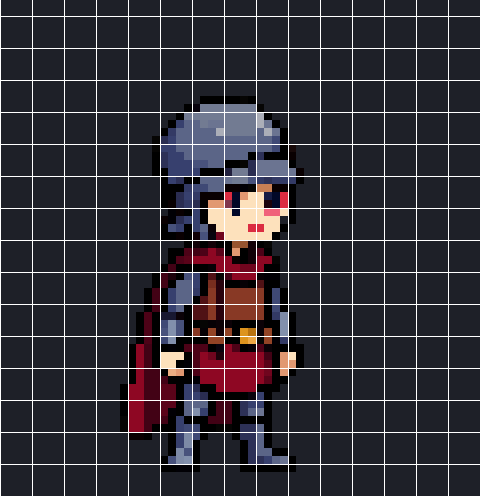
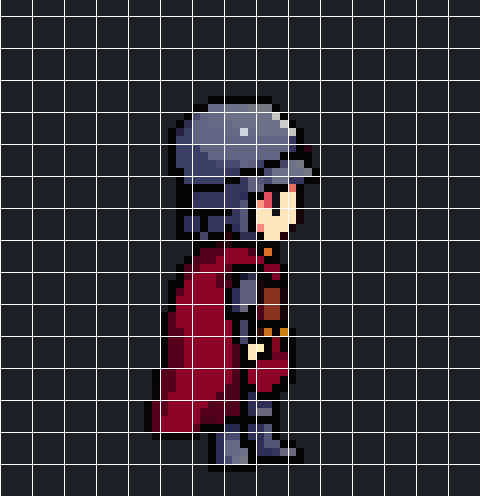
레인저 흠 수리: 석궁사수 옆모습 (PixelLab rotate + 걷기·쏘기 재생성, usage 10)
- /rotate south-east → east 로 중립 그림을 옆모습으로, 관절 다시 읽고 skeleton 3회
- 걷기 3.70, 쏘기 3.60(걷기 석궁을 손 맞춰 붙임), 하늘은 regen 이라 옆모습 쏘기로 대신
- plb.py rotate 명령, 상한 132 · 바닥 50 (사용자 지시)

Changed region(s): [[0.25, 0.1815, 0.6875, 0.9677], [0.4375, 0.2419, 0.4688, 0.2722]]

diff --git a/src/sprites/meta.js b/src/sprites/meta.js
@@ -1,7 +1,7 @@
 'use strict';
 // 생성 파일 — node dev/boxer/sheet-meta.js 가 src/sprites/*.json 을 묶는다 (src/sprites.js)
 const SHEET_META = {
-  arbalest: {"w":75,"h":75,"foot":[33,67],"anims":{"idle":{"row":0,"frames":4,"fps":6,"loop":true},"guard":{"row":1,"frames":4,"fps":8,"loop":true},"walk":{"row":2,"frames":8,"fps":10,"loop":true},"atkA":{"row":3,"frames":6,"fps":14,"loop":false,"hit":3},"atkB":{"row":4,"frames":8,"fps":14,"loop":false,"hit":4},"cast":{"row":5,"frames":2,"fps":10,"loop":true,"key":"pull","val":[0,4.5]},"castUp":{"row":6,"frames":2,"fps":10,"loop":true,"key":"pull","val":[6,12]},"hurt":{"row":7,"frames":2,"fps":12,"loop":false},"death":{"row":8,"frames":5,"fps":8,"loop":false}},"pts":{"idle":[[52,47,32,31],[52,48,32,32],[52,48,32,32],[52,47,32,31]],"guard":[[52,48,32,32],[52,48,32,33],[52,48,32,33],[52,48,32,32]],"walk":[[53,51,33,30],[53,51,33,30],[53,51,33,30],[53,51,33,30],[53,52,34,30],[53,51,33,30],[53,51,33,30],[53,51,33,30]],"atkA":[[52,47,32,31],[53,47,33,31],[51,43,28,31],[49,43,27,31],[50,43,27,31],[53,47,33,31]],"atkB":[[50,41,36,30],[46,44,33,30],[45,43,31,29],[42,42,29,29],[42,40,28,29],[41,41,27,30],[42,42,29,29],[50,41,36,30]],"cast":[[52,47,32,31],[53,47,33,31]],"castUp":[[46,44,33,30],[42,42,29,29]],"hurt":[[51,47,30,31],[51,47,31,31]],"death":[[51,47,31,31],[42,41,26,33],[36,55,22,32],[31,53,12,37],[30,56,10,37]]},"v":"2068cdec"},
+  arbalest: {"w":96,"h":96,"foot":[42,86],"anims":{"idle":{"row":0,"frames":4,"fps":6,"loop":true},"guard":{"row":1,"frames":4,"fps":8,"loop":true},"walk":{"row":2,"frames":8,"fps":10,"loop":true},"atkA":{"row":3,"frames":8,"fps":14,"loop":false,"hit":3},"atkB":{"row":4,"frames":8,"fps":14,"loop":false,"hit":3},"cast":{"row":5,"frames":2,"fps":10,"loop":true,"key":"pull","val":[0,4.5]},"castUp":{"row":6,"frames":2,"fps":10,"loop":true,"key":"pull","val":[6,12]},"hurt":{"row":7,"frames":2,"fps":12,"loop":false},"death":{"row":8,"frames":5,"fps":8,"loop":false}},"pts":{"idle":[[68,58,47,37],[68,59,47,38],[68,59,47,38],[68,58,47,37]],"guard":[[68,59,47,38],[68,60,47,39],[68,60,47,39],[68,59,47,38]],"walk":[[69,63,42,40],[69,62,42,39],[69,62,42,39],[69,62,42,39],[69,63,42,40],[69,62,42,39],[69,62,42,39],[69,62,42,39]],"atkA":[[68,58,47,37],[68,58,47,37],[66,61,41,40],[64,61,39,40],[65,61,40,40],[69,60,48,39],[69,61,45,39],[68,58,47,37]],"atkB":[[68,58,47,37],[68,58,47,37],[66,61,41,40],[64,61,39,40],[65,61,40,40],[69,60,48,39],[69,61,45,39],[68,58,47,37]],"cast":[[68,58,47,37],[68,58,47,37]],"castUp":[[68,58,47,37],[66,61,41,40]],"hurt":[[66,58,45,37],[67,58,46,37]],"death":[[67,58,46,37],[54,51,26,38],[46,72,30,42],[40,66,12,44],[39,66,11,47]]},"v":"ca8a7a9d"},
   arcaneArcher: {"w":75,"h":75,"foot":[33,67],"anims":{"idle":{"row":0,"frames":4,"fps":6,"loop":true},"guard":{"row":1,"frames":4,"fps":8,"loop":true},"walk":{"row":2,"frames":8,"fps":10,"loop":true},"atkA":{"row":3,"frames":8,"fps":14,"loop":false,"hit":5},"atkB":{"row":4,"frames":8,"fps":14,"loop":false,"hit":5},"cast":{"row":5,"frames":4,"fps":10,"loop":true,"key":"pull","val":[0,4.5,7.5,12]},"castUp":{"row":6,"frames":2,"fps":10,"loop":true,"key":"pull","val":[6,12]},"hurt":{"row":7,"frames":2,"fps":12,"loop":false},"death":{"row":8,"frames":5,"fps":8,"loop":false}},"pts":{"idle":[[48,44,41,29],[48,45,41,30],[48,45,41,30],[48,44,41,29]],"guard":[[48,45,41,30],[48,46,41,30],[48,46,41,30],[48,45,41,30]],"walk":[[47,52,32,31],[48,50,32,30],[48,49,32,30],[48,51,31,30],[49,52,32,31],[48,51,32,30],[48,51,32,30],[48,51,31,30]],"atkA":[[48,44,41,29],[48,44,41,29],[45,44,39,29],[44,48,37,29],[44,48,37,29],[47,42,29,31],[47,42,29,31],[48,44,41,29]],"atkB":[[45,47,30,25],[45,47,30,25],[44,46,27,26],[44,48,26,26],[44,45,25,26],[44,45,27,24],[45,48,29,27],[45,48,29,27]],"cast":[[48,44,41,29],[48,44,41,29],[45,44,39,29],[44,48,37,29]],"castUp":[[44,46,27,26],[44,45,25,26]],"hurt":[[47,44,40,29],[48,44,41,29]],"death":[[48,44,41,29],[39,48,24,27],[36,56,11,33],[31,52,9,39],[30,57,8,41]]},"v":"b719e4ff"},
   archmage: {"w":75,"h":75,"foot":[26,69],"anims":{"idle":{"row":0,"frames":4,"fps":4,"loop":true},"guard":{"row":1,"frames":4,"fps":4,"loop":true},"walk":{"row":2,"frames":8,"fps":10,"loop":true},"atkA":{"row":3,"frames":7,"fps":16,"loop":false,"hit":3},"atkB":{"row":4,"frames":7,"fps":16,"loop":false,"hit":4},"cast":{"row":5,"frames":7,"fps":10,"loop":false,"key":"bowA","val":[-0.2,-0.2,-0.7,-1.4,-1.4,0.7,1.2]},"hurt":{"row":6,"frames":2,"fps":12,"loop":false},"death":{"row":7,"frames":5,"fps":8,"loop":false}},"pts":{"idle":[[47,30,27,33],[47,30,27,33],[47,30,27,34],[47,30,27,34]],"guard":[[47,30,27,34],[47,30,27,34],[47,31,27,34],[47,31,27,34]],"walk":[[52,32,26,34],[49,30,44,33],[45,28,30,31],[37,29,34,30],[33,30,34,28],[39,28,36,29],[44,29,26,31],[49,30,26,33]],"atkA":[[47,30,27,33],[0,23,14,34],[73,38,26,34],[74,48,30,36],[74,50,30,36],[74,50,29,35],[59,31,27,34]],"atkB":[[54,36,25,36],[45,2,34,18],[9,8,23,25],[74,51,30,35],[73,72,39,44],[71,74,37,42],[65,43,28,36]],"cast":[[33,31,33,30],[32,30,32,30],[21,9,24,8],[47,2,34,18],[34,0,32,0],[74,41,29,34],[73,73,41,43]],"hurt":[[45,30,25,33],[46,30,26,33]],"death":[[45,30,25,33],[45,30,12,33],[45,30,15,20],[45,30,16,31],[45,30,24,35]]},"v":"de51523a"},
   archon: {"w":64,"h":64,"foot":[28,59],"anims":{"idle":{"row":0,"frames":2,"fps":3,"loop":true},"walk":{"row":1,"frames":4,"fps":8,"loop":true},"atkA":{"row":2,"frames":6,"fps":12,"loop":false,"hit":2},"cast":{"row":3,"frames":4,"fps":6,"loop":true},"hurt":{"row":4,"frames":2,"fps":12,"loop":false}},"pts":{"idle":[[37,37,37,11],[37,37,37,12]],"walk":[[37,37,42,10],[37,37,42,10],[37,37,42,10],[37,37,42,10]],"atkA":[[37,37,37,11],[37,37,44,6],[37,37,35,19],[37,37,27,24],[37,37,27,24],[37,37,37,11]],"cast":[[37,37,37,11],[37,37,37,12],[37,37,37,11],[37,37,37,13]],"hurt":[[37,37,35,11],[37,37,36,11]]},"v":"8ca85376"},

diff --git a/dev/bowsheets/skelgen.py b/dev/bowsheets/skelgen.py
@@ -91,12 +91,12 @@ BODY_KP.update({
                      'RIGHT SHOULDER': (85, 126.25), 'RIGHT ELBOW': (84, 137.5), 'RIGHT ARM': (83.75, 148.75),
                      'RIGHT HIP': (101.25, 146.25), 'RIGHT KNEE': (102.5, 160), 'RIGHT LEG': (103.75, 175),
                      'LEFT HIP': (90, 146.25), 'LEFT KNEE': (88.75, 160), 'LEFT LEG': (88.75, 175)},
-    # 석궁사수: RIGHT = 뒷손(개머리·방아쇠), LEFT = 앞손(받침). 정면에 가까운 그림이라 앞손을 화면 앞쪽(오른쪽) 팔로 읽는다 (반대로 읽으면 KB 가 음수가 되어 석궁이 뒤를 향함)
-    'arbalest': {'NECK': (98.75, 122), 'NOSE': (103.75, 115.5), 'RIGHT EYE': (107.5, 111.25), 'LEFT EYE': (100, 111.25), 'RIGHT EAR': (93.75, 112.5), 'LEFT EAR': (91.25, 113),
-                 'LEFT SHOULDER': (108.75, 127.5), 'LEFT ELBOW': (111, 139), 'LEFT ARM': (112.5, 150),
-                 'RIGHT SHOULDER': (85, 127.5), 'RIGHT ELBOW': (84, 139), 'RIGHT ARM': (83, 150),
-                 'RIGHT HIP': (101.25, 151.25), 'RIGHT KNEE': (102.5, 162.5), 'RIGHT LEG': (103.75, 175),
-                 'LEFT HIP': (90, 151.25), 'LEFT KNEE': (88.75, 162.5), 'LEFT LEG': (87.5, 175)},
+    # 석궁사수: 2026-10-18 PixelLab rotate(south-east → east) 옆모습 중립에서 다시 읽음 (예전 3/4 정면 판: design/ref/arbalest-neutral-34.png). RIGHT = 뒷손(개머리), LEFT = 앞손(받침)
+    'arbalest': {'NECK': (105, 120), 'NOSE': (115, 113.75), 'RIGHT EYE': (111.25, 110), 'LEFT EYE': (108.75, 110), 'RIGHT EAR': (102.5, 112.5), 'LEFT EAR': (100, 112.75),
+                 'LEFT SHOULDER': (108, 124), 'LEFT ELBOW': (107, 136), 'LEFT ARM': (106, 147),
+                 'RIGHT SHOULDER': (101, 124), 'RIGHT ELBOW': (102, 136), 'RIGHT ARM': (103, 148),
+                 'RIGHT HIP': (107.5, 151.25), 'RIGHT KNEE': (108.75, 161), 'RIGHT LEG': (107.5, 175),
+                 'LEFT HIP': (101, 151.25), 'LEFT KNEE': (100, 161), 'LEFT LEG': (98.75, 175)},
 })
 
 

diff --git a/dev/bowsheets/plb.py b/dev/bowsheets/plb.py
@@ -10,7 +10,7 @@ HERE = os.path.dirname(os.path.abspath(__file__))
 sys.path.insert(0, os.path.join(HERE, '..', 'pixellab'))
 from pl import call
 
-CAP, FLOOR = 120, 300   # 2026-10-17 로드맵 예산 A: 90 → 120
+CAP, FLOOR = 132, 50   # 2026-10-17 예산 A 90→120, 2026-10-18 석궁사수 옆모습 +12 · 바닥 50 (사용자 지시)
 APPROVED = os.path.join(HERE, "approved.txt")   # 로드맵 세션이 승인한 호출 이름 한 줄씩 — 없으면 호출 안 함 (2026-10-14 동결)
 LOG = os.path.join(HERE, 'usage.md'); STATE = os.path.join(HERE, 'usage.json')
 
@@ -102,6 +102,11 @@ if __name__ == '__main__':
         fc = int(a[6]) if len(a) > 6 else 4; seed = int(a[7]) if len(a) > 7 else 0
         body = {'first_frame': b64(first), 'action': action, 'frame_count': fc, 'seed': seed, 'no_background': True}
         run('/animate-with-text-v3', body, cls, f'{name}: {action[:70]}', os.path.join(HERE, 'work', cls, name))
+    elif a[1] == 'rotate':                 # 방향 돌리기: rotate <cls> <name> <64칸 png> <from_dir> <to_dir> [seed]
+        cls, name, src, fd, td = a[2:7]; seed = int(a[7]) if len(a) > 7 else 0
+        body = {'image_size': {'width': 64, 'height': 64}, 'from_image': b64(src), 'color_image': b64(src), 'from_view': 'side', 'to_view': 'side',
+                'from_direction': fd, 'to_direction': td, 'image_guidance_scale': 3.0, 'seed': seed}
+        run('/rotate', body, cls, f'{name}: rotate {fd}->{td}', os.path.join(HERE, 'work', cls, name))
     elif a[1] == 'edit':
         cls, name, src, desc = a[2:6]; seed = int(a[6]) if len(a) > 6 else 0
         body = {'image': b64(src), 'description': desc, 'seed': seed, 'no_background': True}

diff --git a/dev/bowsheets/animfix.py b/dev/bowsheets/animfix.py
@@ -83,7 +83,7 @@ def despeck(im, th=40):
 
 
 def skin_c(im, box):
-    P = im.load(); x0, y0, x1, y1 = box
+    P = im.load(); x0, y0, x1, y1 = box; x0, y0, x1, y1 = max(0, x0), max(0, y0), min(im.width, x1), min(im.height, y1)
     s = [(x, y) for y in range(y0, y1) for x in range(x0, x1) if P[x, y][3] and P[x, y][0] > 200 and P[x, y][1] > 130 and P[x, y][2] > 110]
     return (sum(x for x, _ in s) / len(s), sum(y for _, y in s) / len(s)) if s else None
 

diff --git a/docs/specs/legacy-class-sheets.md b/docs/specs/legacy-class-sheets.md
@@ -298,7 +298,7 @@
 - 2026-10-16 레인저 계열 보류 (로드맵 검수 요청): 덧그리기 전 PixelLab 원본(마네킹)을 몽타주로 확인 — 활 쏘기는 뒷손 시위 당김이 없고 앞팔만 조금(손 약 4도트), 석궁 쏘기는 거의 정지, 공성 쏘기만 반동이 보임, 활 하늘 쏘기는 팔을 머리 위로 치켜듦(당기기 없음), 걷기 3종은 좋음. 검사 계열과 같은 "공격 때 몸·팔이 안 움직임" 문제가 원본부터 있다. 남은 PixelLab 호출 없음(usage 12 그대로), approved.txt 비움, SHEET_ON false. 확인 `dev/bowsheets/motion.py`, 검토 0-1절.
 - 레인저 계열: 완료 — 7종 새 시트(걷기·쏘기·하늘 쏘기) 켬, main 0.25.0 배포 (2026-10-17, 13a88ed).
   - 2026-10-18 흠 수리 (브랜치 impl-bow-fix, PixelLab 0회): 공성포수 쏘기의 큰 석궁이 활처럼 보이던 것 → 걷기 0번 석궁의 활대를 세로 0.65배로 눌러 짧고 굵은 T 자로(`dev/bowsheets/xbowfix.py`) 쏘기 전 프레임에 손 맞춰 붙임. 검수 3.57 → 3.86, "석궁으로 읽힘". 걷기는 원래 석궁처럼 읽혀 그대로(3.57).
-  - 다음 달 (PixelLab): 석궁사수 몸이 3/4 정면 — 원래 기준 그림부터 3/4 정면이라 스크립트로 못 고침(옆모습 기준 그림이 없음). 안: PixelLab 방향 돌리기(east) 또는 옆모습 편집 → 걷기·쏘기·하늘 다시(약 usage 10). 차원궁사·마궁수 활대 어두움(선택).
+  - 2026-10-18 석궁사수 옆모습 (PixelLab usage 10 / 승인 12, 재시도 0, 바닥 50): `/rotate`(south-east → east, `plb.py rotate`) 로 중립 그림을 옆모습으로 돌림 → 관절 다시 읽고 걷기·쏘기·하늘 skeleton. 걷기 3.70 pass. 쏘기는 무기가 곡궁처럼 나와 regen → 걷기의 수평 석궁을 손 맞춰 붙이고 반동 밀기(스크립트) 3.60 pass. 하늘 쏘기는 몸이 다시 3/4 로 돌고 석궁이 막대로 나와 regen(2.6) → 방향 일관성을 위해 atkB·castUp 은 옆모습 쏘기로 대신(예전 3/4 하늘 판은 안 씀). 남은 일(선택): 석궁사수 옆모습 하늘 쏘기, 차원궁사·마궁수 활대 어두움.
 - 계열별 구현 세션 결과를 받아 전후 비교를 사용자에게 보여 주고 직업별로 켤지 정한다.
 - 예산이 모자라면 남은 직업은 다음 달 초기화분으로 넘긴다.
 - 2026-10-14: 사용자 요청으로 생성 방식을 바꿈 — 포즈는 기존 조립식 리그가 그리고 ComfyUI img2img(낮은 denoise)로 한 장 그림처럼 다듬은 뒤 원래 팔레트로 고정. PixelLab 은 예외만, 계열 상한 150 → 40. 예상 PixelLab 사용량 600~750 → 0~160.

diff --git a/dev/bowsheets/usage.md b/dev/bowsheets/usage.md
@@ -50,3 +50,7 @@
 | 44 | deadeye | `/animate-with-skeleton-v3` | skel-sky: animate-with-skeleton-v3 192 8f | 3.0 | 96.0 | 850.0 |
 | 45 | voidArcher | `/animate-with-skeleton-v3` | skel-sky: animate-with-skeleton-v3 192 8f | 3.0 | 99.0 | 834.0 |
 | 46 | siegeMaster | `/animate-with-skeleton-v3` | skel-sky: animate-with-skeleton-v3 192 8f | 3.0 | 102.0 | 827.0 |
+| 47 | arbalest | `/rotate` | rot: rotate south-east->east | 1.0 | 103.0 | 314.0 |
+| 48 | arbalest | `/animate-with-skeleton-v3` | skel-walk2: animate-with-skeleton-v3 192 8f | 3.0 | 106.0 | 311.0 |
+| 49 | arbalest | `/animate-with-skeleton-v3` | skel-shoot2: animate-with-skeleton-v3 192 8f | 3.0 | 109.0 | 308.0 |
+| 50 | arbalest | `/animate-with-skeleton-v3` | skel-sky2: animate-with-skeleton-v3 192 8f | 3.0 | 112.0 | 303.0 |
